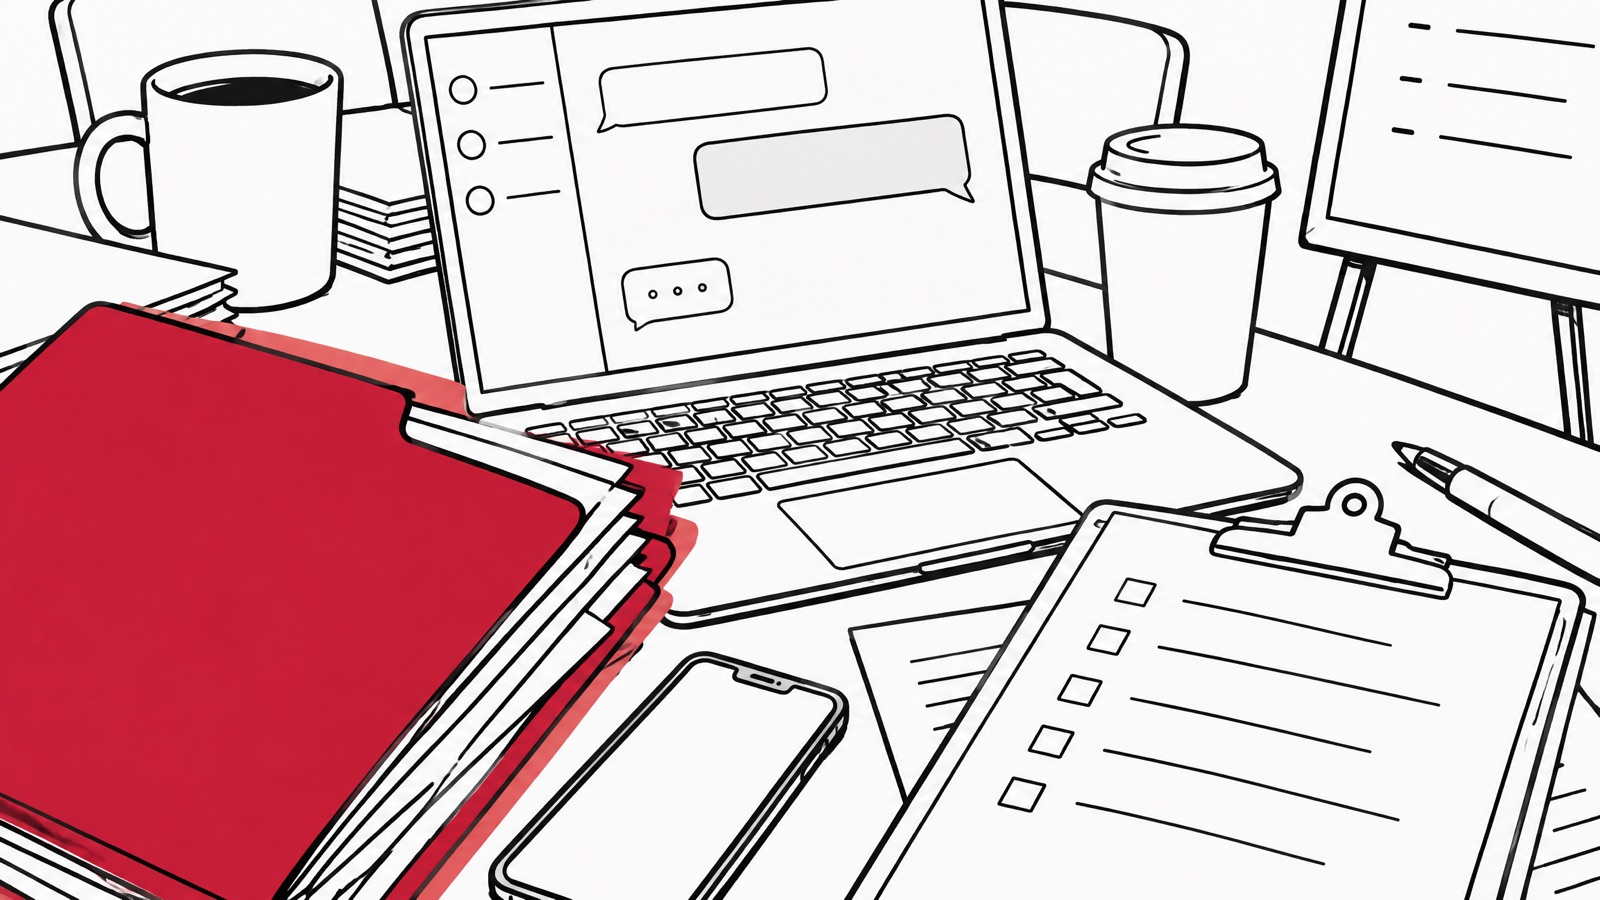
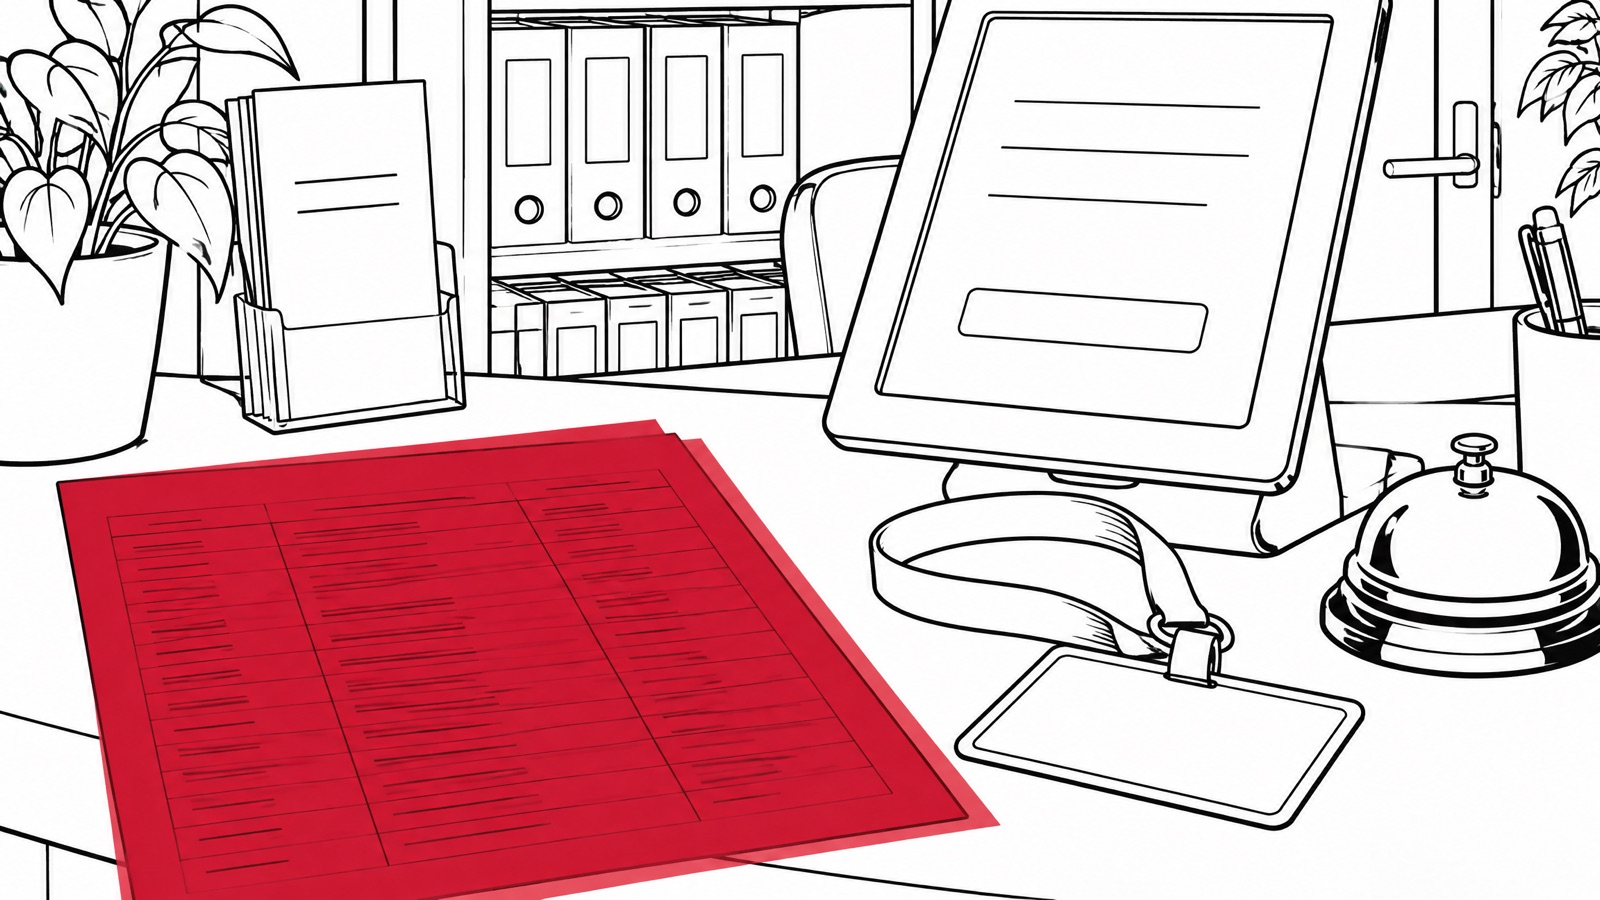
Redraw twelve artikel illustrations as varied service-business scenes
The first set was nearly always the same desk with coffee, a laptop and a
red notebook, and leaned on tradesman settings. New scenes follow the
"Vary the series" rule in the design spec: a reception, a meeting room, a
whiteboard, a trade-fair stand, a car, a train, a kitchen table. Alt texts
updated to match. Flyer, mond-tot-mond and wat-niet-automatiseren kept.

diff --git a/src/content/artikels/ai-geletterdheid-in-je-team.md b/src/content/artikels/ai-geletterdheid-in-je-team.md
@@ -5,7 +5,7 @@ category: AI implementeren
 published_at: 2026-09-28
 draft: false
 image: /artikels/ai-geletterdheid-in-je-team.jpg
-image_alt: Een rode map met klantendossiers ligt naast een open laptop met een chatvenster, een klembord met een lijst, een smartphone, twee koffiebekers en een flip-over op een vergadertafel.
+image_alt: "De balie van een klein boekhoudkantoor met een rode klantenlijst, een tablet om je aan te melden, een bezoekersbadge, een belletje en klantenmappen op de plank erachter."
 ---
 
 Een collega plakt een klantenlijst in ChatGPT, omdat hij er snel een nette mail van wil maken. Het resultaat ziet er goed uit, en niemand vraagt zich af waar die lijst nu staat. Voor je team AI gebruikt met de gegevens van je zaak, moet iedereen drie dingen weten: ongeveer hoe AI werkt, welke gegevens erin mogen en wat je nakijkt voor je iets verstuurt. Dat is AI-geletterdheid, en het is minder technisch dan het woord doet vermoeden.

diff --git a/src/content/artikels/hoe-begin-je-met-ai-in-je-marketing.md b/src/content/artikels/hoe-begin-je-met-ai-in-je-marketing.md
@@ -5,7 +5,7 @@ category: AI implementeren
 published_at: 2026-08-21
 draft: false
 image: /artikels/hoe-begin-je-met-ai-in-je-marketing.jpg
-image_alt: "Een bureau van bovenaf met een rode weekplanner en een rode kookwekker tussen een laptop, een smartphone, een stapel afgedrukte mails en een koffiekop."
+image_alt: "Een whiteboard in een vergaderzaal vol lege post-its in vier kolommen, waarvan de eerste kolom rood is, met stiften, een flip-over en een klok."
 ---
 
 De meeste mensen beginnen met AI in hun marketing door een tool te kiezen, en dan te zoeken wat ze ermee kunnen doen. Het werkt beter in de omgekeerde volgorde. Je begint bij het werk dat je vandaag tijd kost en elke week terugkomt. Daarna kies je de tools en modellen die daarbij passen, je maakt afspraken over hoe je ze gebruikt, en pas dan bouw je iets. Dat is een AI-marketingstrategie, en ze past op één blad.

diff --git a/src/content/artikels/hoe-schrijf-je-een-klantverhaal-dat-je-verkoop-helpt.md b/src/content/artikels/hoe-schrijf-je-een-klantverhaal-dat-je-verkoop-helpt.md
@@ -8,9 +8,7 @@ category: Marketingstrategie
 published_at: 2026-11-04
 draft: false
 image: /artikels/hoe-schrijf-je-een-klantverhaal-dat-je-verkoop-helpt.jpg
-image_alt: Een open laptop, een waaier van afgedrukte pagina's met een paperclip
-  en een pen, een smartphone, een koffietas en de hoek van een
-  bureaukalender.
+image_alt: "Een beursstand met een rek vol folders waarvan er één rood is, een tablet op een statief, een kom snoepjes, een badge en de rand van een banner."
 ---
 
 Een klant twijfelt. Hij vindt je prijs redelijk en je uitleg helder, maar hij vraagt zich af of het bij een zaak als de zijne ook werkt. Je kan het nog eens uitleggen. En nog eens. En misschien wat korting geven. Maar dat neemt de twijfels niet helemaal weg. Een verhaal van iemand die met hetzelfde probleem zat, daarentegen, is veel overtuigender.

diff --git a/src/content/artikels/ai-schrijven-in-je-eigen-stijl.md b/src/content/artikels/ai-schrijven-in-je-eigen-stijl.md
@@ -5,7 +5,7 @@ category: AI implementeren
 published_at: 2026-08-13
 draft: false
 image: /artikels/ai-schrijven-in-je-eigen-stijl.jpg
-image_alt: Een bureau van bovenaf met een laptop, een open rood ringschrift, een blad met doorstreepte regels, een vulpen, een stapeltje briefjes en een kop koffie.
+image_alt: "Een kastplank op kantoor van bovenaf met een rode stempel naast een stempelkussen, ringmappen, briefpapier, visitekaartjes en enveloppen."
 ---
 
 Je vraagt ChatGPT om een tekst voor je nieuwe dienst, en wat terugkomt is vlot en correct, maar het zou net zo goed over de zaak van je buurman kunnen gaan. Wil je dat AI schrijft zoals jouw bedrijf, dan moet je het eerst vertellen wie je bent en hoe je klinkt, in vaste richtlijnen die bij elke vraag meegaan. Zonder die richtlijnen krijg je het gemiddelde van het internet.

diff --git a/src/content/artikels/bouw-nuttige-ai-tools.md b/src/content/artikels/bouw-nuttige-ai-tools.md
@@ -5,7 +5,7 @@ category: AI implementeren
 published_at: 2026-10-21
 draft: false
 image: /artikels/bouw-nuttige-ai-tools.jpg
-image_alt: Een rood orderboek met turfstreepjes ligt open naast een laptop met veel open vensters, een smartphone, een koffiekop en een stapel facturen.
+image_alt: "Een lege vergaderzaal met een dashboard op het scherm aan de muur, een vergadertelefoon op tafel, een rode presentatieklikker, een karaf water en twee glazen."
 ---
 
 Iemand toont je een nieuw dashboard of een chatbot die "alles voor je regelt", en het ziet er goed uit. Of zo'n AI-tool je zaak echt helpt, weet je pas als je drie vragen kunt beantwoorden: klopt de informatie waarmee hij werkt, welk werk neemt hij over, en wie houdt hem bij als hij eenmaal draait? Kun je dat niet zeggen, dan heb je vooral een tabblad erbij.

diff --git a/src/content/artikels/welk-ai-model-kies-je-voor-welke-taak.md b/src/content/artikels/welk-ai-model-kies-je-voor-welke-taak.md
@@ -5,7 +5,7 @@ category: AI implementeren
 published_at: 2026-09-03
 draft: false
 image: /artikels/welk-ai-model-kies-je-voor-welke-taak.jpg
-image_alt: "Een opengeklapte laptop met een rode factuur over het toetsenbord, naast een rekenmachine, een koffiekop en drie schroevendraaiers van klein naar groot, waarvan de kleinste rood is."
+image_alt: "De printerhoek van een klein kantoor met een grote kopieermachine, een kleine rode printer en een labelprinter naast elkaar."
 ---
 
 Welk AI-model je kiest, hangt af van de taak, en voor de meeste taken is dat niet het zwaarste. Een mail samenvatten, een tekst herschrijven of gegevens uit een offerte halen doet een klein, snel model even goed. Het grote model hou je voor werk waar echt veel denkwerk in zit, en dat komt minder vaak voor dan je zou denken.

diff --git a/src/content/artikels/het-belang-van-samenwerking-tussen-sales-en-marketing.md b/src/content/artikels/het-belang-van-samenwerking-tussen-sales-en-marketing.md
@@ -7,8 +7,7 @@ category: Marketingstrategie
 published_at: 2026-09-17
 draft: false
 image: /artikels/het-belang-van-samenwerking-tussen-sales-en-marketing.jpg
-image_alt: Een bureau van bovenaf met een opgenomen telefoonhoorn, een kop
-  koffie, een opengeslagen orderboek en een laptop.
+image_alt: "Zicht vanaf de bestuurdersstoel van een auto met een rode smartphone in een houder op het dashboard, een map met offertes, een laptoptas en autosleutels."
 ---
 
 Een klant belt voor een offerte. Je verkoper stelt een paar vragen, legt uit hoe je werkt en waarom je dat materiaal gebruikt en niet het goedkopere, en na tien minuten zegt hij: "Ah, zo had ik het nog niet bekeken." Dat gesprek is het beste stuk marketing dat je die week gedaan hebt, en er staat geen woord van op je website.

diff --git a/src/content/artikels/waarom-een-goede-ai-opstelling-uit-lagen-bestaat.md b/src/content/artikels/waarom-een-goede-ai-opstelling-uit-lagen-bestaat.md
@@ -7,9 +7,7 @@ category: AI implementeren
 published_at: 2026-11-19
 draft: false
 image: /artikels/waarom-een-goede-ai-opstelling-uit-lagen-bestaat.jpg
-image_alt: Een stapel van drie ringmappen, waarvan de bovenste rood is, naast
-  een open laptop, een rode bureaukalender met afgevinkte dagen, een
-  smartphone en een koffiekop.
+image_alt: "Een kast op kantoor met een brievenbakje van drie lagen waarvan de middelste rood is, archiefdozen, een labelprinter en een plakbandhouder."
 ---
 
 Wanneer je ChatGPT of Claude Chat gebruikt, is de context rond je bedrijf beperkt. Wil je iets maken dat helemaal in lijn licht met je stijl, dan sta je voor een lange opdracht: vertellen hoe je bedrijf klinkt, wat je klanten willen, hoe je iets zegt, hoe het eruit moet zien. 

diff --git a/src/content/artikels/een-kanaal-erbij-is-zelden-het-antwoord.md b/src/content/artikels/een-kanaal-erbij-is-zelden-het-antwoord.md
@@ -6,7 +6,7 @@ category: Marketingstrategie
 published_at: 2026-09-10
 draft: false
 image: /artikels/een-kanaal-erbij-is-zelden-het-antwoord.jpg
-image_alt: "Een bureau van bovenaf met een waaier flyers, een smartphone, een krant, een pen en een rood handgeschreven briefje bovenop."
+image_alt: "Een hoek van een klein kantoor met een smartphone op een rode ringlamp, een opgerolde banner, een doos flyers, een verlengkabel en een stoepbord."
 ---
 
 Als het wat rustiger is dan je zou willen, komt deze vraag bijna vanzelf: moeten we niet beginnen op Instagram posten, of eens iets proberen met advertenties? Een extra marketingkanaal erbij pakken, voelt als iets doen. Maar het lost zelden op wat er eigenlijk misloopt.

diff --git a/src/content/artikels/de-nuttigste-content-is-meestal-saai.md b/src/content/artikels/de-nuttigste-content-is-meestal-saai.md
@@ -7,8 +7,7 @@ category: Marketingstrategie
 published_at: 2026-10-08
 draft: false
 image: /artikels/de-nuttigste-content-is-meestal-saai.jpg
-image_alt: Een rode bureautelefoon en een rood klembord met een lijstje, naast
-  een stapel foto's, een koffiekop en een ringmap met een lijst vragen.
+image_alt: "Een onthaalbalie met een rode headset op zijn houder, een vaste telefoon, een rek met brochures en een notitieblok met turflijnen."
 ---
 
 De telefoon gaat voor de derde keer deze week, en de vraag is dezelfde als de vorige twee keren: welk materiaal gebruik je eigenlijk, en waarom is dat duurder? Je legt het uit, vriendelijk en uitgebreid, en hangt op. De vierde keer volgt volgende week.

diff --git a/src/content/artikels/waar-beginnen-met-je-eigen-ai-tools.md b/src/content/artikels/waar-beginnen-met-je-eigen-ai-tools.md
@@ -7,9 +7,7 @@ category: AI implementeren
 published_at: 2026-11-10
 draft: false
 image: /artikels/waar-beginnen-met-je-eigen-ai-tools.jpg
-image_alt: Een bureau van bovenaf met een open laptop, een smartphone, een
-  koffiekop en een stapel offertes met paperclip en een balpen, de
-  stapel en de pen in rood.
+image_alt: "Een keukentafel van bovenaf, laat op de avond, met een rode stapel facturen, een laptop, kassabonnetjes, een rekenmachine, een brandende lamp en een klok die bijna elf uur aangeeft."
 ---
 
 Het is weer bijna het einde van de maand en in plaats van 's avonds een goeie (pint) te gaan drinken, zit je weer voor de computer om facturen te maken. Plezant is anders.

diff --git a/src/content/artikels/website-bouwen-met-ai.md b/src/content/artikels/website-bouwen-met-ai.md
@@ -5,7 +5,7 @@ category: AI implementeren
 published_at: 2026-10-01
 draft: false
 image: /artikels/website-bouwen-met-ai.jpg
-image_alt: "Een bureau van bovenaf met een open laptop, een rood notitieboek, een stapel papieren met een klem, een paar briefjes, een pen en een koffietas."
+image_alt: "Een tafeltje in de trein met een rode opengeklapte laptop, een smartphone, een doosje oortjes en een treinticket."
 ---
 
 Kan je een website bouwen met AI? Ja, je leest er nu een. Deze site is met Claude gemaakt. Claude schreef de code, gewone HTML en CSS, en elk bestand daarvan kunnen we openen, lezen en aanpassen. Veel flexibeler dan met een website tool, en toch uniek genoeg?
